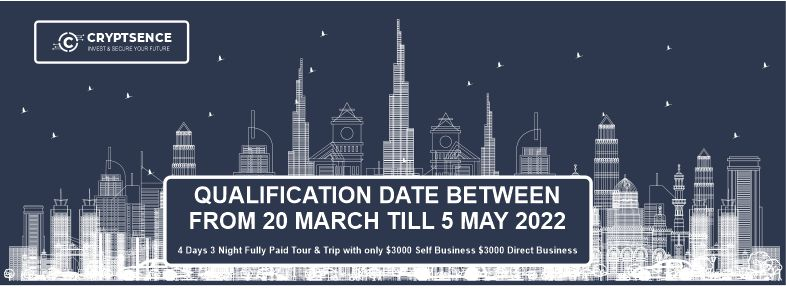
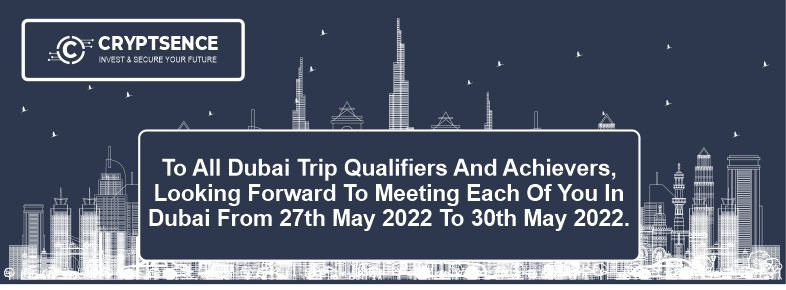
update dubai tour front dashboard user

diff --git a/resources/views/user/dashboard/index.blade.php b/resources/views/user/dashboard/index.blade.php
@@ -844,7 +844,7 @@
 
 
         // make a timer countdown function for the timer
-        var countDownDate = new Date("{{ date('M d, Y H:i:s', strtotime('2022-05-05 12:59:59')) }}").getTime();
+        var countDownDate = new Date("{{ date('M d, Y H:i:s', strtotime('2022-05-27 12:59:59')) }}").getTime();
         var x = setInterval(function() {
             var now = new Date().getTime();
             var distance = countDownDate - now;
